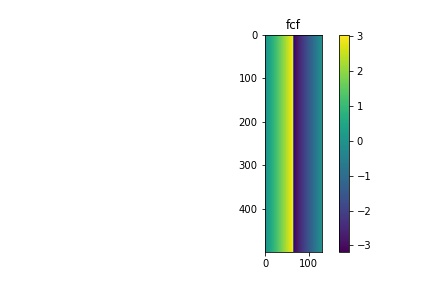
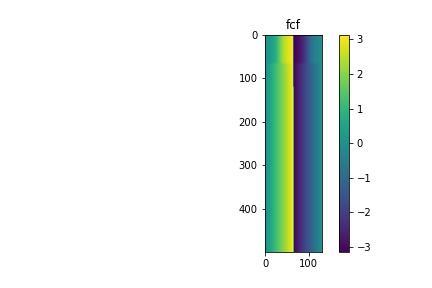
Fixed warp model inclination: inclination of disk was affecting z-values of midplane slice, fixed so only affected by warp values. Added some cartesian projection plots.

diff --git a/Warp/disk_ecc_warp.py b/Warp/disk_ecc_warp.py
@@ -54,15 +54,27 @@ def w_func(self, r, type):
     elif type == "pa":
         a = self.pa
 
+    print("a " + str(a))
+    print("r0 " + str(r0))
+    print("dr " + str(dr))
+    print("r max" + str(np.max(r)))
+    print("r min" + str(np.min(r)))
     r0 = 1.0 if r0 is None else r0
     dr = 1.0 if dr is None else dr
     return np.radians(a / (1.0 + np.exp(-(r0 - r) / (0.1*dr))))
 
 
 def apply_matrix2d_d(p0, warp, twist, inc_, PA_):
+    inc_ = 0
     x = p0[:, :, 0]
     y = p0[:, :, 1]
     z = p0[:, :, 2]
+
+    plt.pcolor(x, y, z)
+    plt.title("z apply matrix input")
+    plt.colorbar()
+    plt.show()
+
 
     warp = warp[:, None]
     print(warp.shape)
@@ -156,6 +168,7 @@ class Disk:
         '''trying a linear grid'''
         af = np.linspace(amin,amax,nac)
         zf = np.linspace(zmin,self.zmax,nzc)
+        print("zmax = " + str(self.zmax)) 
         pf = np.linspace(0,2*np.pi,self.nphi) #f is with refrence to semi major axis
         ff = (pf - self.aop) % (2*np.pi) # phi values are offset by aop- refrence to sky
         #print("ff" + str(ff))
@@ -212,6 +225,12 @@ class Disk:
         yi = acf[:,:,0] * np.sin(pcf[:,:,0])
 
         '''reshaping to play nice with rotational matrix'''
+
+        plt.pcolor(xi, yi, zcf[:,:,0])
+        plt.title('zcf')
+        plt.colorbar()
+        plt.show()
+
         points_i = np.moveaxis([xi, yi, zcf[:,:,0]], 0, 2)
         print(points_i.shape)
 
@@ -221,12 +240,18 @@ class Disk:
         self.rotation = rotation
         '''now we have warped disk, rotation is a a stack of 3 2d array with[:,:,0]=x coord, [:,:,1]=y coord, [:,;,2]=z coord'''
         
+
+        plt.pcolor(rotation[:,:,0], rotation[:,:,1], rotation[:,:,2])
+        plt.title("z after warp")
+        plt.colorbar()
+        plt.show()
         '''now to make 3d grid:'''
 
         '''keeping z grid, adding each point in zf to each slice
         this doesn't perfectly replicate geoemetry of warp: 
         I think we would need to apply a rotational matrix to each z slice'''
         z_grid = rotation[:,:,2]
+
         z_full_grid = z_grid[:,:,np.newaxis] + zf
         '''translating x &y grids back to polar coordinates'''
 
@@ -270,9 +295,12 @@ class Disk:
         acf=r_full_grid
         #fcf=f_full_grid + np.pi
         #fcf = f_full_grid -np.pi/3
+        '''I'm really not sure why but the fcf grid was offset, and subtracting 1 fixed it...?? Why??'''
         fcf = f_full_grid -1
         zcf=z_full_grid
 
+        '''useful for plotting polar graphs in cart space'''
+        x_polar, y_polar = pol2cart(acf[:,:,0], fcf[:,:,0])
 
         plt.imshow(fcf[:,:,0])
         plt.title("fcf")
@@ -340,6 +368,11 @@ class Disk:
         plt.savefig("warp_siggas.jpg")
         plt.show()
 
+        plt.pcolor(x_polar, y_polar, siggas)
+        plt.title("siggas cart")
+        plt.colorbar()
+        plt.show()
+
         ## Add an extra ring
         if self.ring is not None:
             w = np.abs(rcf-self.Rring)<self.Wring/2.
@@ -347,6 +380,8 @@ class Disk:
                 tempg[w] = tempg[w]*(rcdf[w]/(150*Disk.AU))**(self.sig_enhance-self.qq)/((rcf[w].max())/(150.*Disk.AU))**(-self.qq+self.sig_enhance)
 
 
+        
+        '''may need to make sure correct grid is being used herre'''
         self.calc_hydrostatic(tempg,siggas,grid)
 
 
@@ -366,6 +401,11 @@ class Disk:
         plt.savefig("warp_vel.jpg")
         plt.show()
 
+        plt.pcolor(x_polar, y_polar, self.vel[:,:,0])
+        plt.colorbar()
+        plt.title("vel warp with pi shift cart")
+        plt.show()
+
         fcf = f_full_grid
         self.vel2 = np.sqrt(Disk.G*self.Mstar/(acf*(1-self.ecc**2.)))*(np.cos(self.aop+fcf)+self.ecc*self.cosaop)
 
@@ -373,6 +413,11 @@ class Disk:
         plt.title("vel warp without pi shift")
         plt.colorbar()
         plt.savefig("warp_vel.jpg")
+        plt.show()
+
+        plt.pcolor(x_polar, y_polar, self.vel2[:,:,0])
+        plt.colorbar()
+        plt.title("vel warp without pi shift cart")
         plt.show()
 
         ###### Major change: vel is linear not angular ######
@@ -480,8 +525,8 @@ class Disk:
 
         '''I think I need to add parameters here for warp model...'''
         self.w_i = params[18]               # - inclination of warp
-        self.w_r0 = params[19]              # - inflection radius
-        self.w_dr = params[20]              # - how many annuli it takes for warp transition
+        self.w_r0 = params[19]*Disk.AU              # - inflection radius
+        self.w_dr = params[20]*Disk.AU         # - how many annuli it takes for warp transition
         self.pa = params[21]                # - position angle (how rotated the face-on disk is) of warp
 
 
@@ -824,8 +869,10 @@ class Disk:
         #t1 = time.clock()
         #differential equation for vertical density profile
         dlnT = (np.log(tempg)-np.roll(np.log(tempg),1,axis=2))/dz
-        dlnp = -1.*grvc*zcf/(tempg*(rcf**2+zcf**2)**1.5)-dlnT
-        dlnp[:,:,0] = -1.*grvc*zcf[:,:,0]/(tempg[:,:,0]*(rcf[:,:,0]**2.+zcf[:,:,0]**2.)**1.5)
+        #dlnp = -1.*grvc*zcf/(tempg*(rcf**2+zcf**2)**1.5)-dlnT
+        #dlnp[:,:,0] = -1.*grvc*zcf[:,:,0]/(tempg[:,:,0]*(rcf[:,:,0]**2.+zcf[:,:,0]**2.)**1.5)
+        #plt.pcolor([self.x_polar, self.y_polar, tempg:,:,0])
+        #plt.
 
         #numerical integration to get vertical density profile
         foo = dz*(dlnp+np.roll(dlnp,1,axis=2))/2.
@@ -834,6 +881,11 @@ class Disk:
 
         #normalize the density profile (note: this is just half the sigma value!)
         rho0 = 0.5*((sigint/np.trapz(np.exp(lnp),zcf,axis=2))[:,:,np.newaxis]*np.ones(nzc))*np.exp(lnp)
+
+        #plt.pcolor(x_polar, y_polar, rho0[:,:,0])
+        #plt.title("rho0 cart")
+        #plt.colorbar()
+        #plt.show()
         #t2=time.clock()
         #print("hydrostatic loop took {t} seconds".format(t=(t2-t1)))
 
